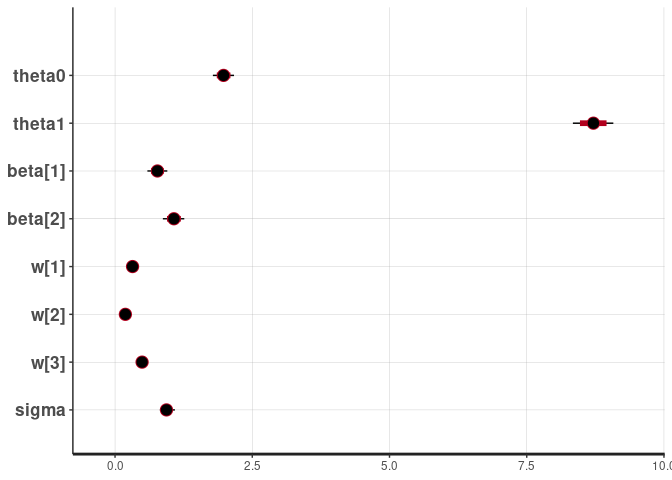
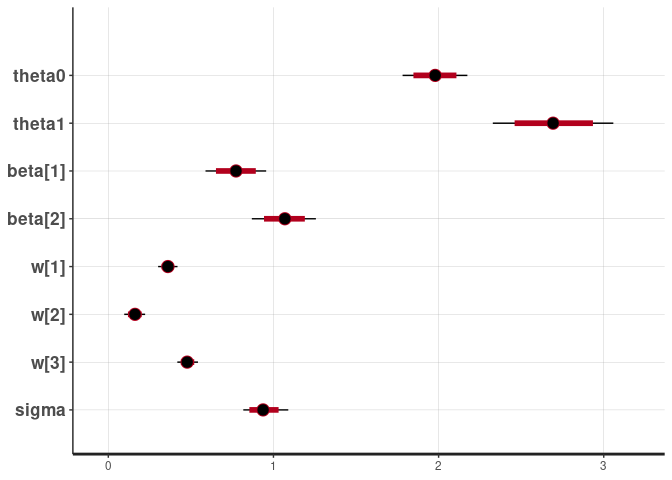
Update README

diff --git a/README.md b/README.md
@@ -13,7 +13,7 @@ to work with binary and count response data.
 
 ## Installation
 
-You can install the stable version from CRAN:
+Available on CRAN:
 
 ``` r
 install.packages("bws")
@@ -43,15 +43,11 @@ w <- c(0.3, 0.2, 0.5)
 theta0 <- 2
 theta1 <- 3
 beta <- runif(K, 0.5, 1.5)
-y <- theta0 + theta1*theta1*(X%*%w) + Z%*%beta + rnorm(N)
+y <- theta0 + theta1*(X%*%w) + Z%*%beta + rnorm(N)
 ## Fitting BWS is simple
 fit <- bws::bws(iter = 2000, y = y, X = X, Z = Z,
          # additional arguments for rstan::sampling
          chains = 4, cores = 2, show_messages = FALSE)
-#> Warning: replacing previous import 'lifecycle::last_warnings' by
-#> 'rlang::last_warnings' when loading 'tibble'
-#> Warning: replacing previous import 'lifecycle::last_warnings' by
-#> 'rlang::last_warnings' when loading 'pillar'
 ```
 
 Since the implementation uses Stan and returns an `rstanfit` object,
@@ -71,12 +67,12 @@ print(fit, pars = c("w", "theta1"))
 #> post-warmup draws per chain=1000, total post-warmup draws=4000.
 #> 
 #>        mean se_mean   sd 2.5%  25%  50%  75% 97.5% n_eff Rhat
-#> w[1]   0.32       0 0.01 0.30 0.31 0.32 0.33  0.34  5292    1
-#> w[2]   0.19       0 0.01 0.17 0.18 0.19 0.19  0.21  5750    1
-#> w[3]   0.49       0 0.01 0.47 0.49 0.49 0.50  0.51  6125    1
-#> theta1 8.71       0 0.19 8.34 8.59 8.71 8.84  9.08  5388    1
+#> w[1]   0.36       0 0.03 0.30 0.34 0.36 0.38  0.42  4774    1
+#> w[2]   0.16       0 0.03 0.10 0.14 0.16 0.18  0.22  4218    1
+#> w[3]   0.48       0 0.03 0.42 0.46 0.48 0.50  0.54  4550    1
+#> theta1 2.69       0 0.19 2.33 2.57 2.69 2.82  3.06  4847    1
 #> 
-#> Samples were drawn using NUTS(diag_e) at Mon Jun 13 00:06:38 2022.
+#> Samples were drawn using NUTS(diag_e) at Sun Mar 19 18:33:00 2023.
 #> For each parameter, n_eff is a crude measure of effective sample size,
 #> and Rhat is the potential scale reduction factor on split chains (at 
 #> convergence, Rhat=1).
